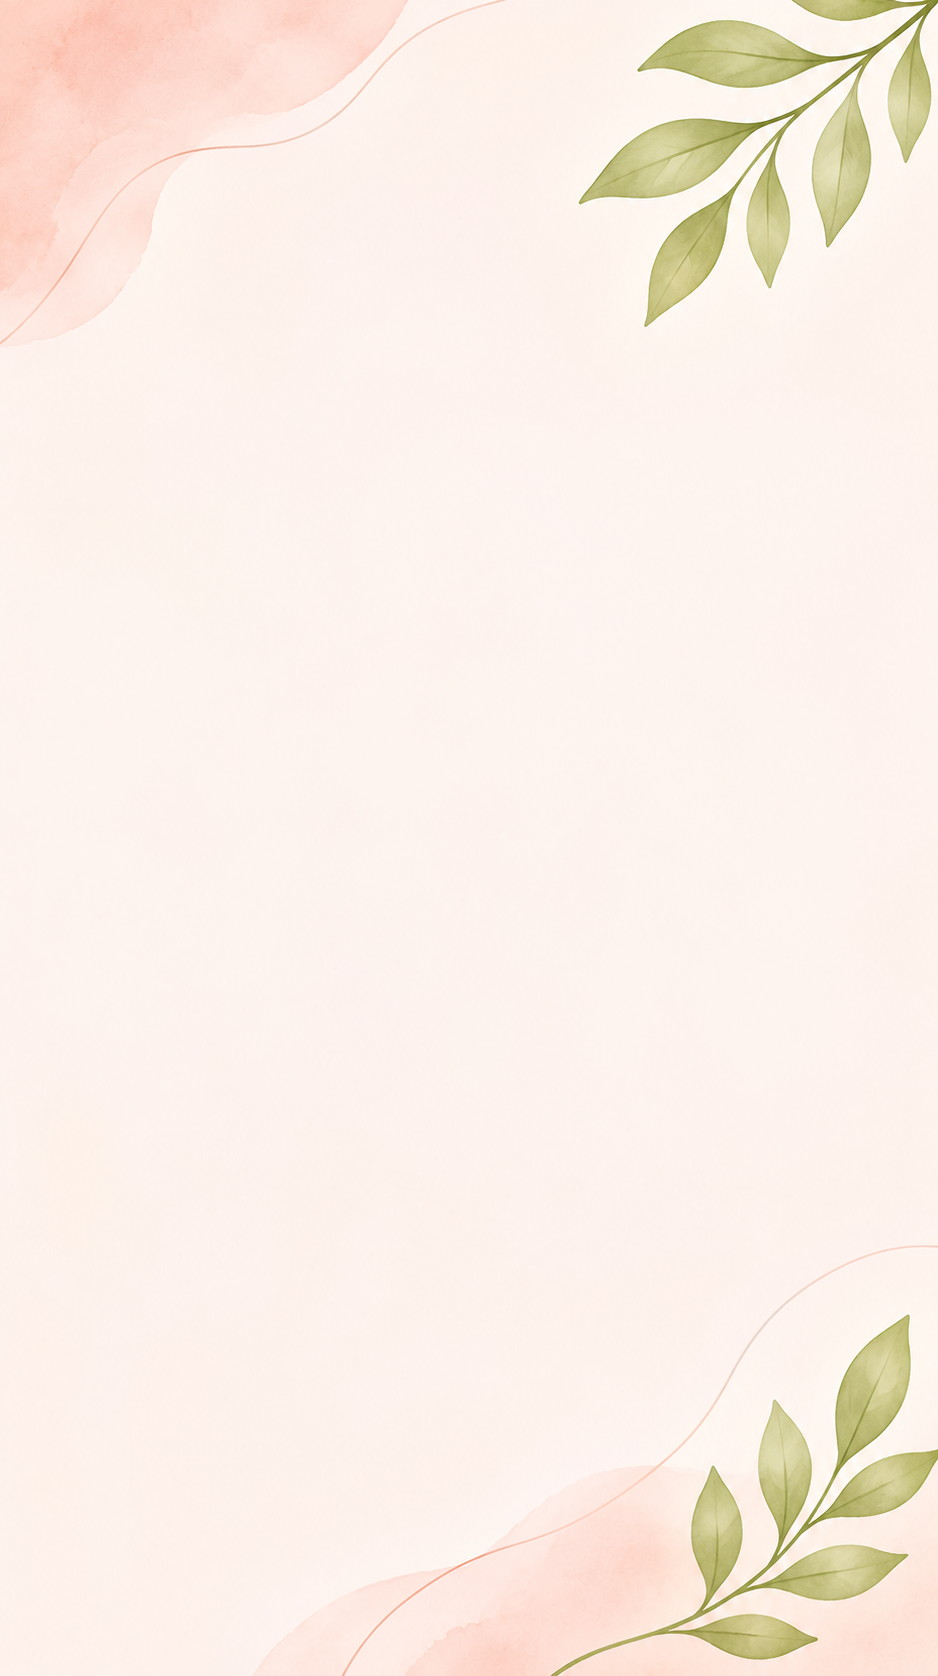
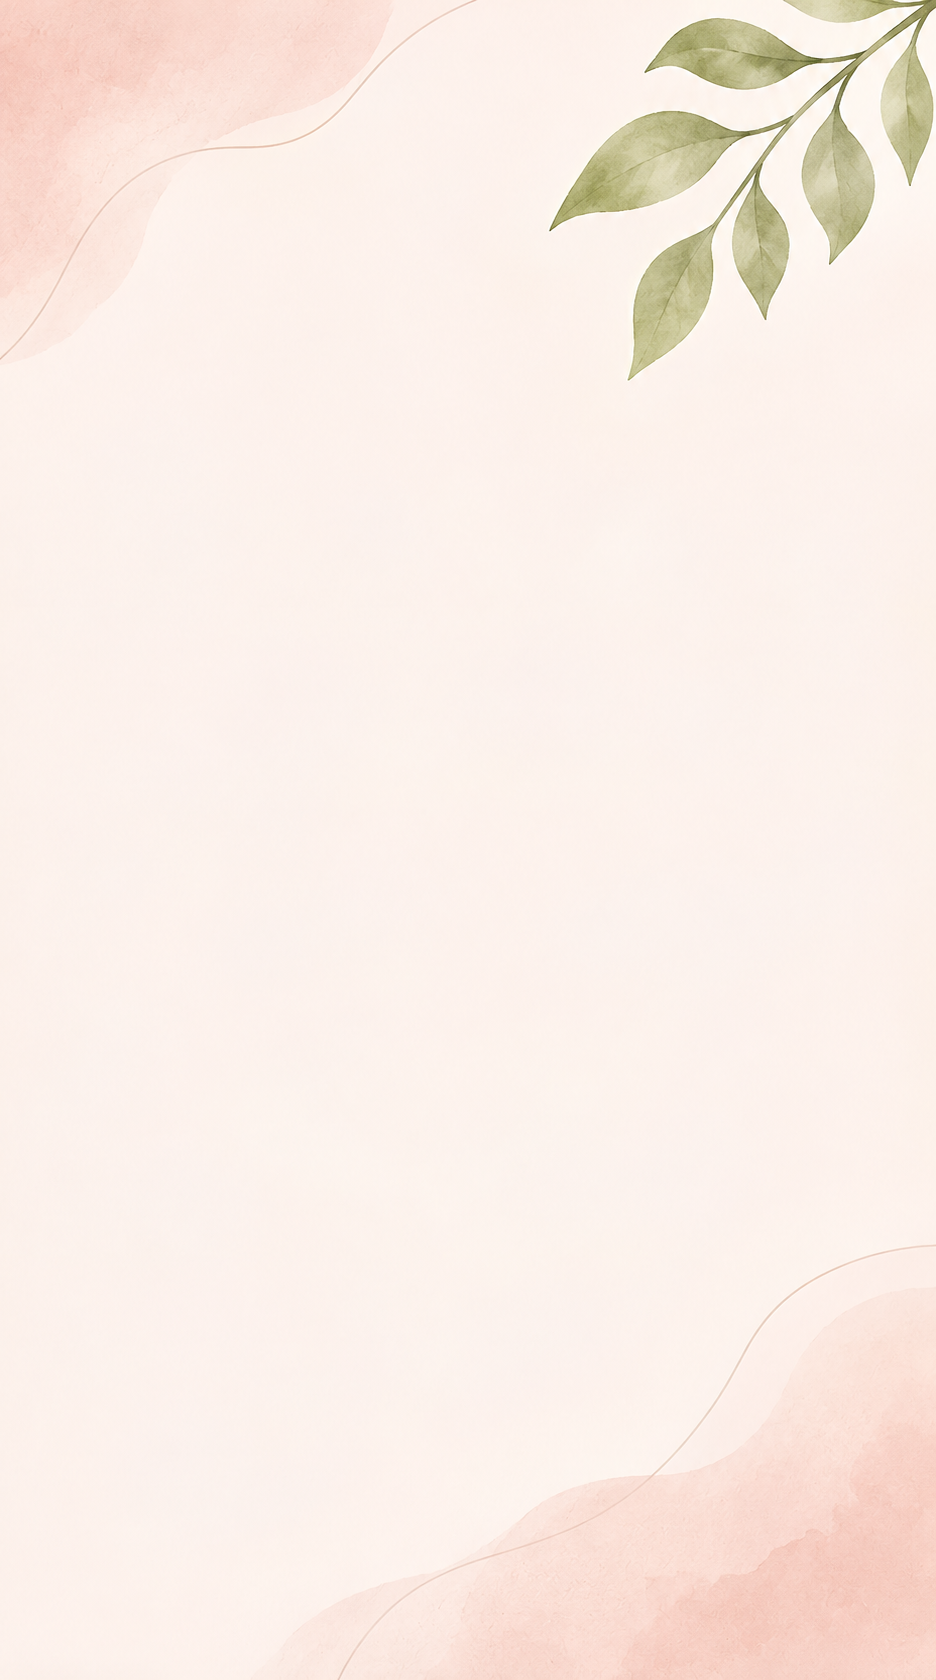
add images for dark mode

diff --git a/client/src/components/home/JumboWrapper.jsx b/client/src/components/home/JumboWrapper.jsx
@@ -1,6 +1,7 @@
 import { ImageBackground, StyleSheet, Text, View } from 'react-native';
 import PrimaryButton from '../shared/PrimaryButton';
-import { COLORS, SPACING, TYPOGRAPHY } from '../../theme';
+import useThemeContext from '../../contexts/theme/useThemeContext';
+import { SPACING, TYPOGRAPHY } from '../../theme';
 
 export default function JumboWrapper({
     title,
@@ -8,13 +9,19 @@ export default function JumboWrapper({
     handlePress,
     children
 }) {
+    const { theme, isDarkMode } = useThemeContext();
+
+    const backgroundImage = isDarkMode
+        ? require("../../assets/images/welcome-dark.png")
+        : require("../../assets/images/welcome.png");
+
     return (
         <ImageBackground
-            source={require('../../assets/images/welcome.png')}
+            source={backgroundImage}
             resizeMode="cover"
         >
-            <View style={styles.content}>
-                <Text style={styles.title}>{title}</Text>
+            <View style={[styles.content, { backgroundColor: theme.colors.clearBackground, }]}>
+                <Text style={[styles.title, { color: theme.colors.text }]}>{title}</Text>
                 {children}
                 <PrimaryButton
                     buttonText={buttonText}
@@ -32,13 +39,11 @@ const styles = StyleSheet.create({
         width: '70%',
         paddingHorizontal: SPACING.lg,
         paddingVertical: SPACING.xl,
-        backgroundColor: COLORS.clearBackground,
     },
     title: {
         marginBottom: SPACING.sm,
         fontFamily: TYPOGRAPHY.fontFamily.bold,
         fontSize: TYPOGRAPHY.fontSize.xxl,
         textAlign: 'center',
-        color: COLORS.text,
     },
 });

diff --git a/client/src/components/form/FormWrapper.jsx b/client/src/components/form/FormWrapper.jsx
@@ -6,8 +6,8 @@ export default function FormWrapper({ children }) {
     const { isDarkMode } = useThemeContext();
 
     const backgroundImage = isDarkMode
-        ? require("../../assets/images/auth-background-dark.png")
-        : require("../../assets/images/auth-background.png");
+        ? require("../../assets/images/background-dark.png")
+        : require("../../assets/images/background.png");
 
 
     return (
